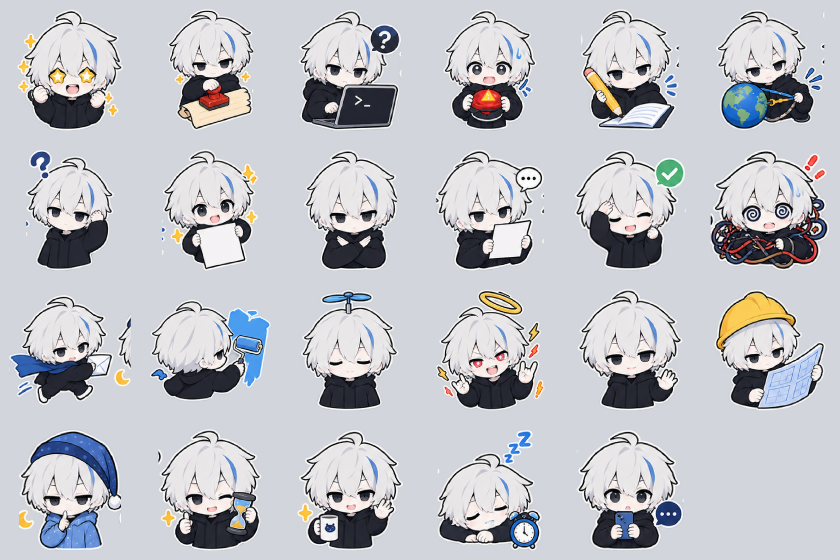
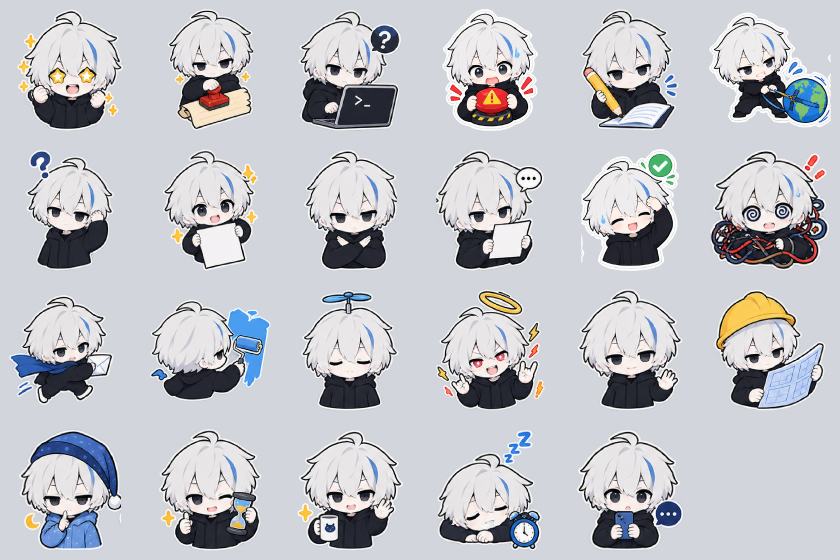
Новые стикеры для ask_danger, ask_net и done
Лист с ними был без прозрачности — «шахматку» ИИ нарисовал пикселями,
поэтому в нарезку добавлены три вещи:

- убираем светлый фон заливкой от краёв картинки, так что белое внутри
  персонажа остаётся на месте
- рисуем белую обводку заново: заливка неизбежно съедает старую, ведь
  она того же цвета, что и фон
- разводим пересекающиеся рамки и стираем в рамке чужие кусочки, иначе
  в стикер попадает полоска соседа

diff --git a/make_stickers.py b/make_stickers.py
@@ -132,6 +132,71 @@ def spans(flags, gap):
     return out
 
 
+def dekey(width, height, rows, light=225, grey=26):
+    """Убирает светлый фон заливкой от краёв картинки.
+
+    Нужно, когда «прозрачность» нарисована как настоящая шахматка: заливаем
+    только то, что связано с краем, поэтому белое внутри персонажа остаётся.
+    Заодно съедается белая обводка стикера — её потом рисуем заново.
+    """
+    from collections import deque
+
+    def is_light(x, y):
+        i = x * 4
+        r, g, b = rows[y][i], rows[y][i + 1], rows[y][i + 2]
+        return min(r, g, b) >= light and max(r, g, b) - min(r, g, b) <= grey
+
+    seen = bytearray(width * height)
+    queue = deque()
+    for x in range(width):
+        for y in (0, height - 1):
+            if is_light(x, y) and not seen[y * width + x]:
+                seen[y * width + x] = 1
+                queue.append((x, y))
+    for y in range(height):
+        for x in (0, width - 1):
+            if is_light(x, y) and not seen[y * width + x]:
+                seen[y * width + x] = 1
+                queue.append((x, y))
+
+    while queue:
+        x, y = queue.popleft()
+        rows[y][x * 4 + 3] = 0
+        for nx, ny in ((x - 1, y), (x + 1, y), (x, y - 1), (x, y + 1)):
+            if 0 <= nx < width and 0 <= ny < height and not seen[ny * width + nx]:
+                if is_light(nx, ny):
+                    seen[ny * width + nx] = 1
+                    queue.append((nx, ny))
+    return rows
+
+
+def add_outline(width, height, rows, radius=9):
+    """Обводит непрозрачные области белым кантом заданной толщины."""
+    from collections import deque
+
+    distance = bytearray(width * height)        # 0 — ещё не размечено
+    queue = deque()
+    for y in range(height):
+        row = rows[y]
+        base = y * width
+        for x in range(width):
+            if row[x * 4 + 3] > ALPHA_FLOOR:
+                distance[base + x] = 1
+                queue.append((x, y, 1))
+
+    while queue:
+        x, y, step = queue.popleft()
+        if step > radius:
+            continue
+        for nx, ny in ((x - 1, y), (x + 1, y), (x, y - 1), (x, y + 1)):
+            if 0 <= nx < width and 0 <= ny < height and not distance[ny * width + nx]:
+                distance[ny * width + nx] = step + 1
+                i = nx * 4
+                rows[ny][i:i + 4] = bytes((255, 255, 255, 255))
+                queue.append((nx, ny, step + 1))
+    return rows
+
+
 def components(width, height, rows, step=2):
     """Связные области непрозрачных пикселей: (площадь, left, top, right, bottom).
 
@@ -176,6 +241,75 @@ def components(width, height, rows, step=2):
     return found
 
 
+def isolate(rows, box, reach=26, step=2):
+    """Вырезает прямоугольник и стирает в нём чужие кусочки.
+
+    В рамку соседа нередко попадает край другого стикера: брызги, уголок
+    обводки. Оставляем самую большую область и то, что к ней примыкает,
+    остальное делаем прозрачным.
+    """
+    from collections import deque
+
+    left, top, right, bottom = box
+    sub = [bytearray(rows[y][left * 4:right * 4]) for y in range(top, bottom)]
+    width, height = right - left, bottom - top
+
+    cols = (width + step - 1) // step
+    lines = (height + step - 1) // step
+    mask = bytearray(cols * lines)
+    for y in range(lines):
+        row = sub[min(y * step, height - 1)]
+        for x in range(cols):
+            if row[min(x * step, width - 1) * 4 + 3] > ALPHA_FLOOR:
+                mask[y * cols + x] = 1
+
+    groups = []
+    for start in range(cols * lines):
+        if not mask[start]:
+            continue
+        queue, cells = deque([start]), []
+        mask[start] = 0
+        while queue:
+            node = queue.popleft()
+            cells.append(node)
+            cx, cy = node % cols, node // cols
+            for nx, ny in ((cx - 1, cy), (cx + 1, cy), (cx, cy - 1), (cx, cy + 1)):
+                if 0 <= nx < cols and 0 <= ny < lines:
+                    other = ny * cols + nx
+                    if mask[other]:
+                        mask[other] = 0
+                        queue.append(other)
+        groups.append(cells)
+
+    if len(groups) <= 1:
+        return sub, width, height
+
+    groups.sort(key=len, reverse=True)
+    main = groups[0]
+    main_box = cells_box(main, cols)
+    for cells in groups[1:]:
+        if near(cells_box(cells, cols), main_box) <= reach / step:
+            continue
+        for node in cells:                       # чужое — стираем
+            cx, cy = (node % cols) * step, (node // cols) * step
+            for y in range(cy, min(cy + step, height)):
+                for x in range(cx, min(cx + step, width)):
+                    sub[y][x * 4 + 3] = 0
+    return sub, width, height
+
+
+def cells_box(cells, cols):
+    xs = [c % cols for c in cells]
+    ys = [c // cols for c in cells]
+    return min(xs), min(ys), max(xs) + 1, max(ys) + 1
+
+
+def near(a, b):
+    dx = max(b[0] - a[2], a[0] - b[2], 0)
+    dy = max(b[1] - a[3], a[1] - b[3], 0)
+    return (dx * dx + dy * dy) ** 0.5
+
+
 def attach_small(big, small, reach=50):
     """Прилепляет мелочь (блёстки, значки) к ближайшему стикеру."""
     boxes = [list(b) for b in big]
@@ -205,7 +339,7 @@ def dense(counts, extent, ratio):
     return [count > floor for count in counts]
 
 
-def find_boxes(width, height, rows):
+def find_boxes(width, height, rows, reach=50):
     """Прямоугольники стикеров в порядке чтения: сверху вниз, слева направо."""
     found = components(width, height, rows)
     if not found:
@@ -214,16 +348,41 @@ def find_boxes(width, height, rows):
     big = [(left, top, right, bottom)
            for area, left, top, right, bottom in found if area > largest * 0.15]
     small = [b for b in found if b[0] <= largest * 0.15]
-    boxes = attach_small(big, small)
+    boxes = attach_small(big, small, reach)
 
     # Порядок чтения: сначала по рядам, внутри ряда слева направо. Ряд
     # определяем по середине стикера, округлённой до типичной высоты.
     heights = sorted(bottom - top for _left, top, _right, bottom in boxes)
     line_height = max(1, heights[len(heights) // 2])
     boxes.sort(key=lambda b: (int((b[1] + b[3]) / 2 / line_height), b[0]))
-    boxes = split_wide(rows, boxes)
+    boxes = declash(split_wide(rows, boxes))
     boxes.sort(key=lambda b: (int((b[1] + b[3]) / 2 / line_height), b[0]))
     return [tighten(rows, *b) for b in boxes]
+
+
+def declash(boxes):
+    """Разводит пересекающиеся рамки, деля общую полосу пополам.
+
+    Иначе в рамку попадает край соседа: на плотном листе прямоугольники
+    соседних стикеров заходят друг на друга.
+    """
+    out = [list(b) for b in boxes]
+    for i in range(len(out)):
+        for j in range(i + 1, len(out)):
+            a, b = out[i], out[j]
+            over_x = min(a[2], b[2]) - max(a[0], b[0])
+            over_y = min(a[3], b[3]) - max(a[1], b[1])
+            if over_x <= 0 or over_y <= 0:
+                continue
+            if over_x <= over_y:                      # режем по вертикали
+                first, second = (a, b) if a[0] + a[2] < b[0] + b[2] else (b, a)
+                middle = (max(a[0], b[0]) + min(a[2], b[2])) // 2
+                first[2], second[0] = middle, middle
+            else:                                     # режем по горизонтали
+                first, second = (a, b) if a[1] + a[3] < b[1] + b[3] else (b, a)
+                middle = (max(a[1], b[1]) + min(a[3], b[3])) // 2
+                first[3], second[1] = middle, middle
+    return [tuple(b) for b in out]
 
 
 def split_wide(rows, boxes, factor=1.4):
@@ -388,7 +547,22 @@ def main():
     width, height, rows = read_png(source)
     print("  %dx%d" % (width, height))
 
-    boxes = find_boxes(width, height, rows)
+    opaque_everywhere = all(line[x * 4 + 3] > ALPHA_FLOOR
+                            for line in rows[::16] for x in range(0, width, 16))
+    if opaque_everywhere or "--dekey" in sys.argv:
+        print("  прозрачности нет — убираю светлый фон заливкой от краёв")
+        dekey(width, height, rows)
+        radius = 9
+        if "--outline" in sys.argv:
+            radius = int(sys.argv[sys.argv.index("--outline") + 1])
+        if radius:
+            print("  рисую белую обводку в %d пикселей" % radius)
+            add_outline(width, height, rows, radius)
+
+    reach = 50
+    if "--reach" in sys.argv:
+        reach = int(sys.argv[sys.argv.index("--reach") + 1])
+    boxes = find_boxes(width, height, rows, reach)
     print("найдено стикеров: %d" % len(boxes))
     if not boxes:
         print("Ничего не нашёл. Фон должен быть прозрачным, а стикеры — "
@@ -397,7 +571,8 @@ def main():
 
     for index, box in enumerate(boxes, 1):
         left, top, right, bottom = box
-        canvas = to_canvas(rows, box)
+        sub, sub_w, sub_h = isolate(rows, box)
+        canvas = to_canvas(sub, (0, 0, sub_w, sub_h))
         path = os.path.join(out_dir, "%02d.png" % index)
         write_png(path, CANVAS, CANVAS, canvas)
         print("  %02d  %4dx%-4d -> %s  %d КБ"
